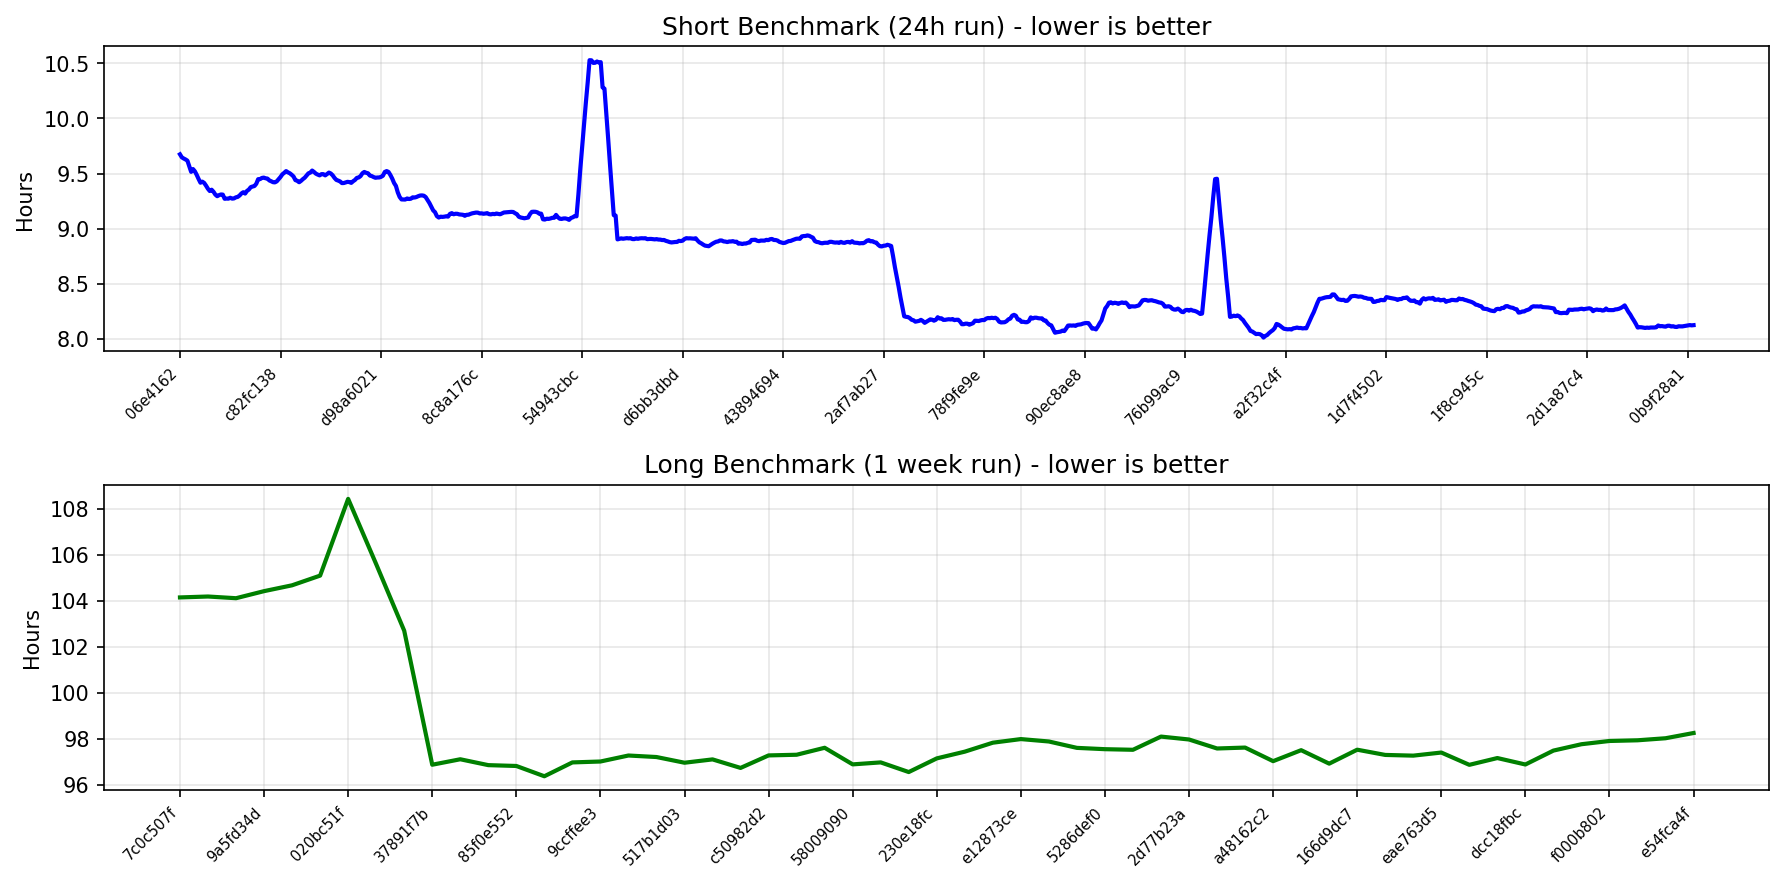
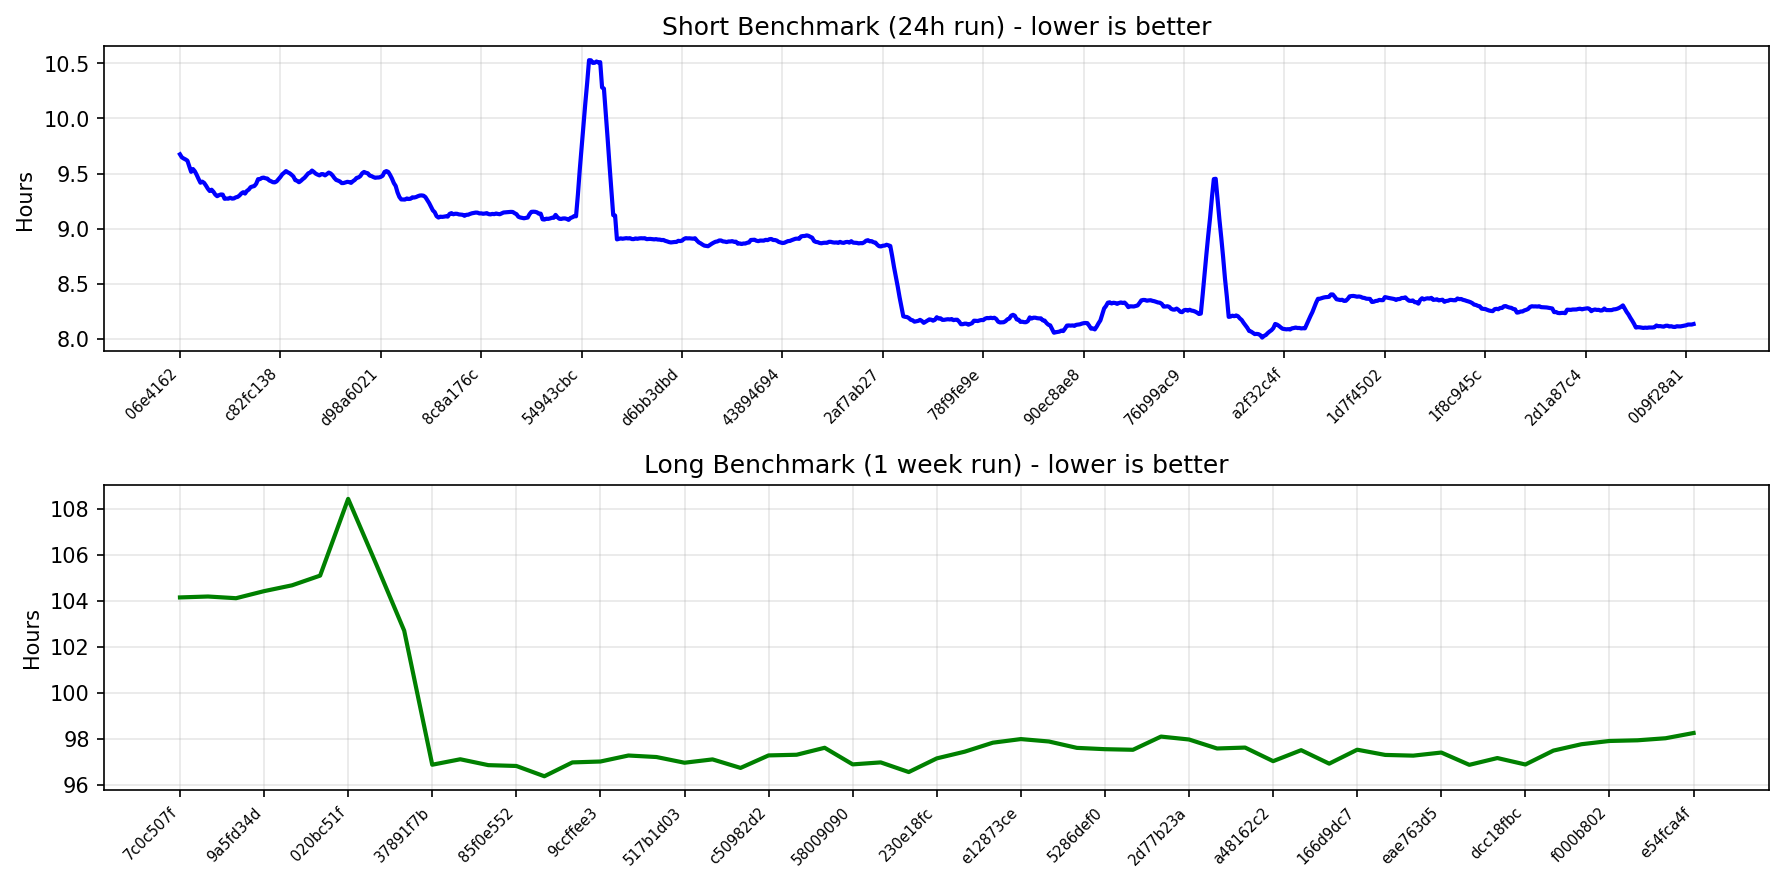
chore: update short benchmark Readme

diff --git a/README.md b/README.md
@@ -12,11 +12,11 @@ This repository contains various eth1 import benchmark metrics.
 
 | Generated At | Baseline SHA | Contender SHA | Baseline Time | Contender Time | Time Delta |
 |--------------|--------------|---------------|---------------|----------------|------------|
+| 2026-07-10 09:58:57 | [34ad78a6](https://github.com/status-im/nimbus-eth1/commit/34ad78a6) | [5bc71a3b](https://github.com/status-im/nimbus-eth1/commit/5bc71a3b) | 8h7m8s | 8h9m11s | 2m3s, 0.42% |
 | 2026-07-10 01:38:33 | [061b735d](https://github.com/status-im/nimbus-eth1/commit/061b735d) | [34ad78a6](https://github.com/status-im/nimbus-eth1/commit/34ad78a6) | 8h7m58s | 8h7m8s | -49s, -0.17% |
 | 2026-07-09 17:17:34 | [5cdc1de9](https://github.com/status-im/nimbus-eth1/commit/5cdc1de9) | [061b735d](https://github.com/status-im/nimbus-eth1/commit/061b735d) | 8h8m3s | 8h7m58s | -5s, -0.02% |
 | 2026-07-09 08:56:21 | [0b9f28a1](https://github.com/status-im/nimbus-eth1/commit/0b9f28a1) | [5cdc1de9](https://github.com/status-im/nimbus-eth1/commit/5cdc1de9) | 8h6m4s | 8h8m3s | 1m58s, 0.41% |
 | 2026-07-09 00:37:06 | [f2f813aa](https://github.com/status-im/nimbus-eth1/commit/f2f813aa) | [0b9f28a1](https://github.com/status-im/nimbus-eth1/commit/0b9f28a1) | 8h7m17s | 8h6m4s | -1m12s, -0.25% |
-| 2026-07-08 16:16:31 | [e5fc3f13](https://github.com/status-im/nimbus-eth1/commit/e5fc3f13) | [f2f813aa](https://github.com/status-im/nimbus-eth1/commit/f2f813aa) | 8h9m0s | 8h7m17s | -1m43s, -0.35% |
 
 ## Latest 5 Long Benchmarks (1 Week Run)
 